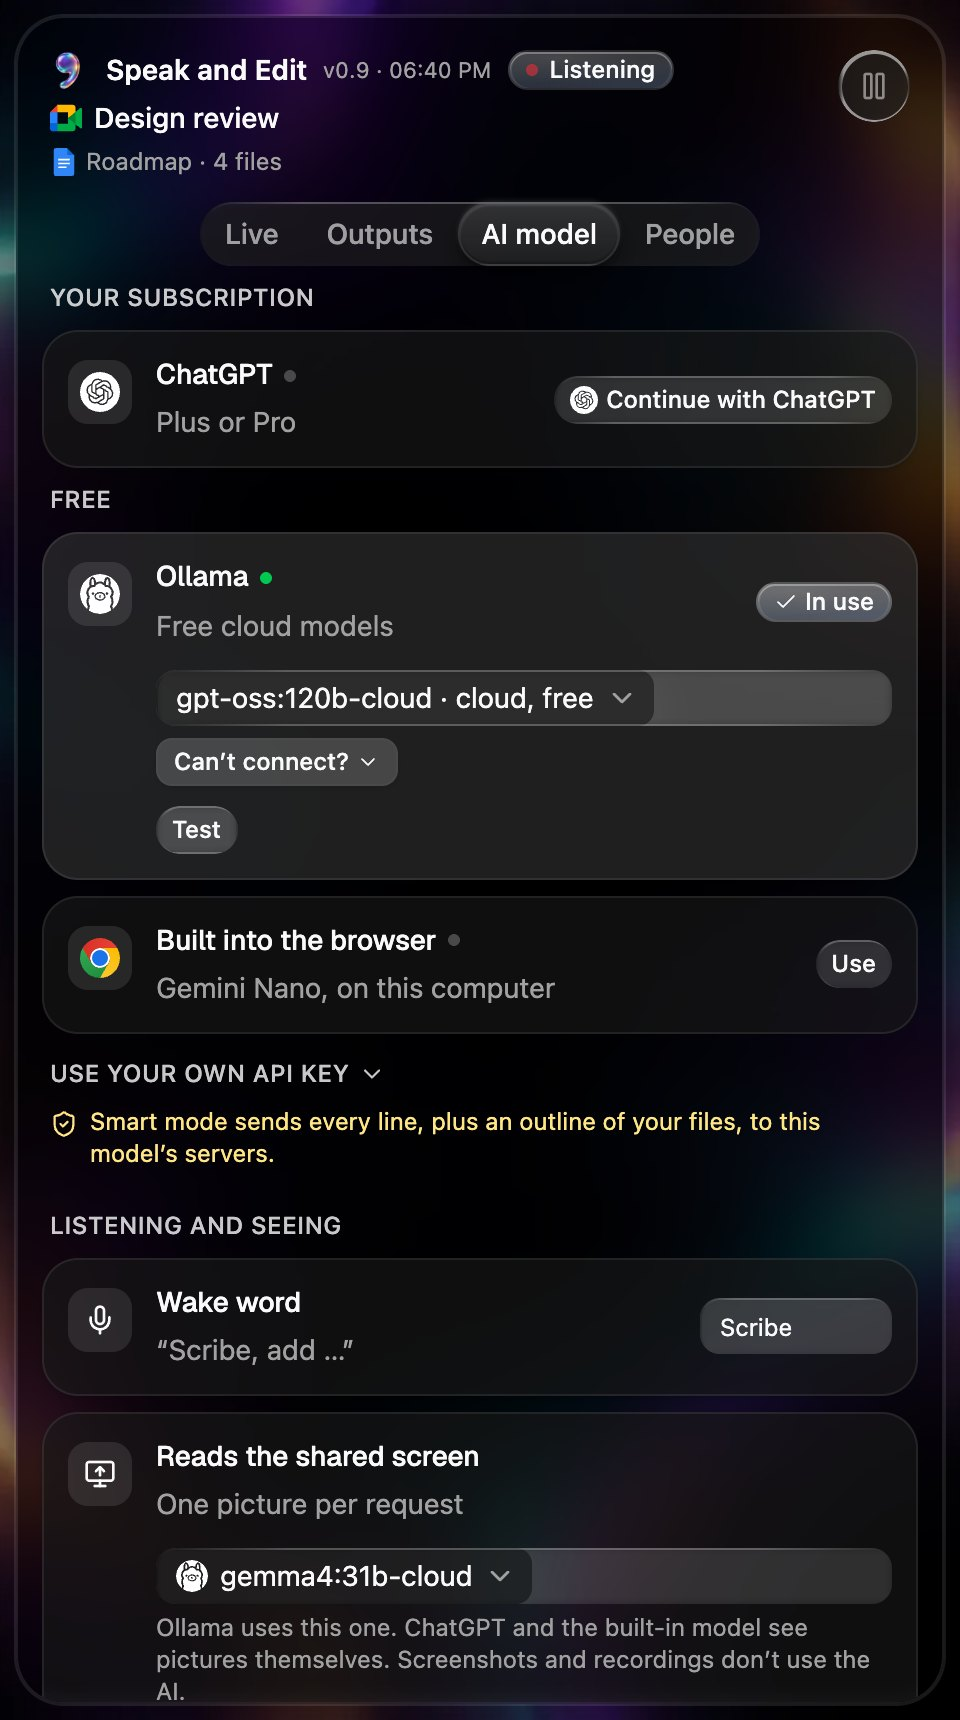
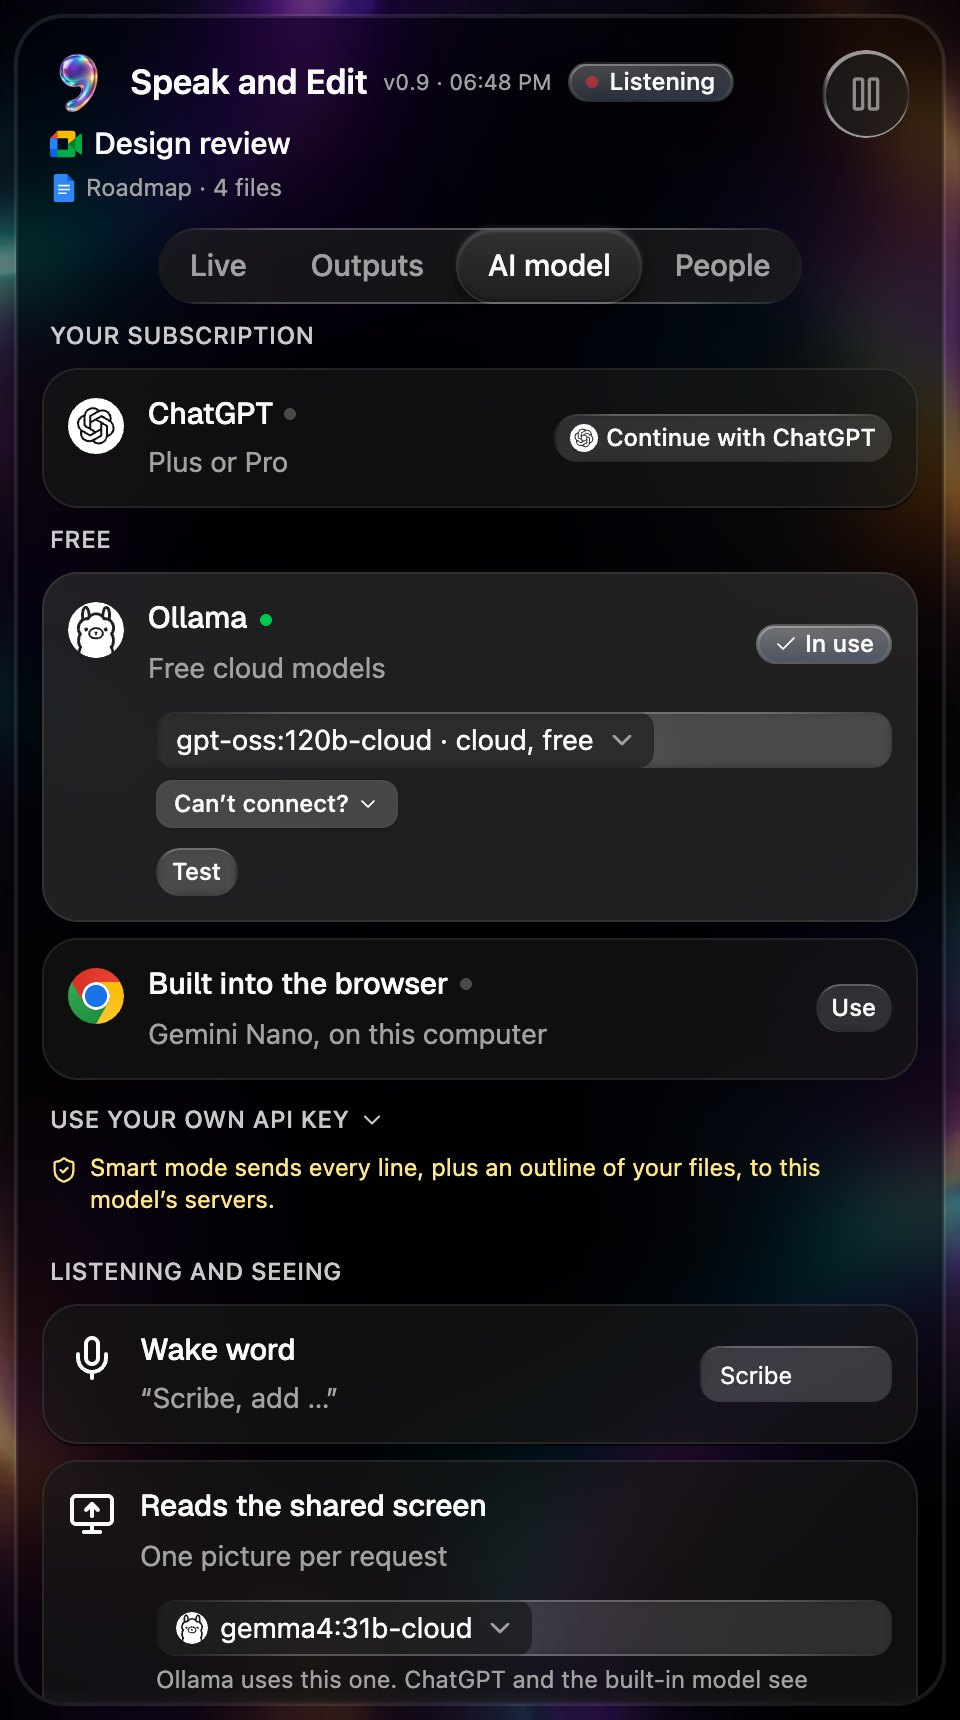
Scale the panel to the design boards' proportions
Same stock components, a size up: 15px row titles, roomier rows, bare app
logos with no tile box, bigger header, tabs, avatars and footer pickers.

diff --git a/src/sidepanel/OutputsTab.tsx b/src/sidepanel/OutputsTab.tsx
@@ -39,7 +39,8 @@ import { ChoiceRow, Hint, SectionLabel } from "./shared";
 
 /** The square tile every logo and icon sits in, so rows line up. */
 function Tile({ children }: { children: React.ReactNode }) {
-  return <ItemMedia className="size-8 rounded-lg bg-white/70 dark:bg-white/10 [&_svg:not([class*='size-'])]:size-4">{children}</ItemMedia>;
+  // The logo sits bare, a size up: no box behind it (his call, 2026-11-04).
+  return <ItemMedia className="[&_svg]:!size-7">{children}</ItemMedia>;
 }
 
 interface OpenTab {
@@ -147,7 +148,7 @@ export function OutputsTab(props: { engine: Engine; state: EngineState; settings
 
   /** A compact row: logo or icon, a title, at most one short line, and a control. */
   const pickRow = (icon: React.ReactNode, title: string, line: string, control: React.ReactNode, after?: React.ReactNode) => (
-    <GlassItem className="gap-3 px-3" glassVariant="subtle" size="sm">
+    <GlassItem className="gap-3 px-3 py-3" glassVariant="subtle" size="sm">
       <Tile>{icon}</Tile>
       <ItemContent className="min-w-0">
         <ItemTitle>{title}</ItemTitle>
@@ -219,7 +220,7 @@ export function OutputsTab(props: { engine: Engine; state: EngineState; settings
                 return (
                   <div key={f.id}>
                     {i > 0 && <GlassSeparator className="mx-3" glassVariant="subtle" />}
-                    <GlassItem className="items-start gap-3 rounded-none border-0 px-3 shadow-none" glassVariant="clear" size="sm">
+                    <GlassItem className="items-start gap-3 rounded-none border-0 px-3 py-3 shadow-none" glassVariant="clear" size="sm">
                       <Tile>
                         <Logo name={FILE_LOGO[f.kind]} />
                       </Tile>
@@ -263,7 +264,7 @@ export function OutputsTab(props: { engine: Engine; state: EngineState; settings
           <>
             <SectionLabel>Open in this window</SectionLabel>
             {openTabs.map((t) => (
-              <GlassItem className="gap-3 px-3" glassVariant="subtle" key={t.id} size="sm">
+              <GlassItem className="gap-3 px-3 py-3" glassVariant="subtle" key={t.id} size="sm">
                 <Tile>
                   <Logo name={FILE_LOGO[t.kind]} />
                 </Tile>
@@ -287,7 +288,7 @@ export function OutputsTab(props: { engine: Engine; state: EngineState; settings
         <OverleafSection connected={settings.files} onAdd={addLocal} />
 
         {googleReady && (
-          <GlassItem className="gap-3 px-3" glassVariant="subtle" size="sm">
+          <GlassItem className="gap-3 px-3 py-3" glassVariant="subtle" size="sm">
             <Tile>
               <Logo name="google" />
             </Tile>
@@ -344,7 +345,7 @@ export function OutputsTab(props: { engine: Engine; state: EngineState; settings
 
       <div className="flex flex-col gap-2">
         <SectionLabel>Also</SectionLabel>
-        <GlassItem className="gap-3 px-3" glassVariant="subtle" size="sm">
+        <GlassItem className="gap-3 px-3 py-3" glassVariant="subtle" size="sm">
           <Tile>
             <MessageSquareQuoteIcon />
           </Tile>

diff --git a/src/sidepanel/EntryView.tsx b/src/sidepanel/EntryView.tsx
@@ -123,7 +123,7 @@ function ActionView({ entry, engine }: { entry: Entry; engine: Engine }) {
         <Tool className={cn("mb-0 rounded-xl", subtle)} defaultOpen={!ok || a.done.length > 1}>
           <ToolHeader
             className="p-2.5 text-left"
-            icon={<SlidersHorizontalIcon className="size-4 text-muted-foreground" />}
+            icon={<SlidersHorizontalIcon className="size-6 text-muted-foreground" />}
             state={ok ? "output-available" : "output-error"}
             title={`Scribe: ${a.done[0] ?? "couldn’t change that"}`}
             type="tool-set_scribe"
@@ -183,7 +183,7 @@ function ActionView({ entry, engine }: { entry: Entry; engine: Engine }) {
       const p = a.proposal;
       return (
         <Tool className={cn("mb-0 rounded-xl", subtle)} defaultOpen>
-          <ToolHeader className="p-2.5 text-left" icon={<Logo className="size-4" name={FILE_LOGO[p.file.kind]} />} state="approval-requested" title={proposalTitle(p)} type="tool-scribe" />
+          <ToolHeader className="p-2.5 text-left" icon={<Logo className="size-6" name={FILE_LOGO[p.file.kind]} />} state="approval-requested" title={proposalTitle(p)} type="tool-scribe" />
           <ToolContent className="space-y-3 p-3">
             <MediaPreview p={p} />
             <ToolInput input={{ file: p.file.title, ...describeWrite(p.write) }} />
@@ -225,7 +225,7 @@ function ActionView({ entry, engine }: { entry: Entry; engine: Engine }) {
                 : "Added";
       return (
         <Tool className={cn("mb-0 rounded-xl", subtle)} defaultOpen={waiting}>
-          <ToolHeader className="p-2.5 text-left" icon={<Logo className="size-4" name={FILE_LOGO[p.file.kind]} />} state={state} title={`${verb}: ${p.file.title} › ${r.where}`} type="tool-scribe" />
+          <ToolHeader className="p-2.5 text-left" icon={<Logo className="size-6" name={FILE_LOGO[p.file.kind]} />} state={state} title={`${verb}: ${p.file.title} › ${r.where}`} type="tool-scribe" />
           <ToolContent className="space-y-3 p-3">
             <MediaPreview p={p} />
             <ToolInput input={{ ...(r.remove ? { remove: r.remove } : {}), add: r.add, requested_by: `${p.speaker}, ${timeOf(p.at).slice(0, 5)}` }} />
@@ -270,11 +270,11 @@ export function EntryView({ entry, engine, me, avatar }: { entry: Entry; engine:
       <Message from={mine ? "user" : "assistant"}>
         <div className={cn("flex items-center gap-2 text-muted-foreground text-xs", mine && "justify-end")}>
           <SpeakerAvatar name={entry.speaker} src={avatar} />
-          <span className="font-medium text-foreground">{entry.speaker}</span>
+          <span className="font-medium text-foreground text-sm">{entry.speaker}</span>
           <time className="tabular-nums">{timeOf(entry.at)}</time>
           {entry.typed && <span>typed</span>}
         </div>
-        <MessageContent>
+        <MessageContent className="text-[15px]">
           <p className={cn(wake && "font-medium")}>{entry.text}</p>
         </MessageContent>
       </Message>

diff --git a/src/sidepanel/App.tsx b/src/sidepanel/App.tsx
@@ -149,8 +149,8 @@ export function App() {
         <GlassCard className="glass-scope h-full w-full gap-0 overflow-hidden rounded-[24px] py-0 text-foreground dark:bg-black/60" glassVariant="frosted">
           <header className="flex items-start justify-between gap-2 px-4 pt-4">
             <div className="flex min-w-0 flex-col gap-1">
-              <div className="flex items-center gap-2 font-semibold">
-                <img alt="" className="size-5 shrink-0" src={logo} />
+              <div className="flex items-center gap-2 font-semibold text-[17px]">
+                <img alt="" className="size-8 shrink-0" src={logo} />
                 Speak and Edit
                 <BuildStamp />
                 <GlassBadge className="gap-1.5" glassVariant="liquid">
@@ -164,7 +164,7 @@ export function App() {
                   </GlassBadge>
                 )}
               </div>
-              <div className="flex min-w-0 items-center gap-1.5 font-medium">
+              <div className="flex min-w-0 items-center gap-1.5 font-medium text-[15px]">
                 <Logo className="size-4" name="meet" />
                 <span className="truncate">{meet?.title ?? "Google Meet"}</span>
               </div>
@@ -196,7 +196,7 @@ export function App() {
                       aria-label={meet?.paused ? "Resume listening" : "Pause listening"}
                       disabled={!meetTabId || meet?.status !== "listening"}
                       onClick={() => void setPaused(!meet?.paused)}
-                      size="sm"
+                      size="md"
                     />
                   }
                 >
@@ -209,16 +209,16 @@ export function App() {
 
           <div className="flex justify-center px-3 pt-3 pb-2">
             <GlassToggleGroup aria-label="Scribe sections" onValueChange={(v) => setTab(v as Tab)} value={tab}>
-              <GlassToggleGroupItem className="px-3 py-1.5" value="live">
+              <GlassToggleGroupItem className="px-4 py-2 text-[15px]" value="live">
                 Live
               </GlassToggleGroupItem>
-              <GlassToggleGroupItem className="px-3 py-1.5" value="outputs">
+              <GlassToggleGroupItem className="px-4 py-2 text-[15px]" value="outputs">
                 Outputs
               </GlassToggleGroupItem>
-              <GlassToggleGroupItem className="px-3 py-1.5" value="ai">
+              <GlassToggleGroupItem className="px-4 py-2 text-[15px]" value="ai">
                 AI model
               </GlassToggleGroupItem>
-              <GlassToggleGroupItem className="px-3 py-1.5" value="people">
+              <GlassToggleGroupItem className="px-4 py-2 text-[15px]" value="people">
                 People
               </GlassToggleGroupItem>
             </GlassToggleGroup>

diff --git a/src/sidepanel/AiTab.tsx b/src/sidepanel/AiTab.tsx
@@ -363,12 +363,12 @@ export function AiTab(props: {
     const st = status[p];
     return (
       <GlassItem
-        className={cn("gap-3 px-3", selected && "bg-white/55 dark:bg-white/[0.12]")}
+        className={cn("gap-3 px-3 py-3", selected && "bg-white/55 dark:bg-white/[0.12]")}
         glassVariant="subtle"
         key={p}
         size="sm"
       >
-        <ItemMedia className="size-8 rounded-lg bg-white/70 dark:bg-white/10">
+        <ItemMedia className="[&_svg]:!size-7">
           <Logo name={PROVIDER_LOGO[p]} />
         </ItemMedia>
         <ItemContent className="min-w-0">
@@ -427,9 +427,9 @@ export function AiTab(props: {
 
       <div className="flex flex-col gap-2">
         <SectionLabel>Listening and seeing</SectionLabel>
-        <GlassItem className="gap-3 px-3" glassVariant="subtle" size="sm">
-          <ItemMedia className="size-8 rounded-lg bg-white/70 dark:bg-white/10">
-            <MicIcon className="size-4" />
+        <GlassItem className="gap-3 px-3 py-3" glassVariant="subtle" size="sm">
+          <ItemMedia className="[&_svg]:!size-6">
+            <MicIcon />
           </ItemMedia>
           <ItemContent className="min-w-0">
             <ItemTitle>Wake word</ItemTitle>
@@ -439,9 +439,9 @@ export function AiTab(props: {
             <GlassInput aria-label="Wake word" className="h-7 w-24 text-xs" onChange={(e) => update({ wakeWord: e.target.value.replace(/\s+/g, "") || "Scribe" })} value={settings.wakeWord} />
           </ItemActions>
         </GlassItem>
-        <GlassItem className="gap-3 px-3" glassVariant="subtle" size="sm">
-          <ItemMedia className="size-8 rounded-lg bg-white/70 dark:bg-white/10">
-            <MonitorUpIcon className="size-4" />
+        <GlassItem className="gap-3 px-3 py-3" glassVariant="subtle" size="sm">
+          <ItemMedia className="[&_svg]:!size-6">
+            <MonitorUpIcon />
           </ItemMedia>
           <ItemContent className="min-w-0">
             <ItemTitle>Reads the shared screen</ItemTitle>

diff --git a/src/sidepanel/LiveTab.tsx b/src/sidepanel/LiveTab.tsx
@@ -80,8 +80,8 @@ function FooterPicker<T extends string>(props: { label: string; value: T; choice
   const Icon = current.icon;
   return (
     <PromptInputActionMenu>
-      <PromptInputActionMenuTrigger aria-label={`${label}: ${current.title}`} className="gap-1.5 px-2 text-muted-foreground text-xs" size="sm">
-        <Icon className="size-3.5" />
+      <PromptInputActionMenuTrigger aria-label={`${label}: ${current.title}`} className="gap-1.5 px-2.5 text-muted-foreground text-sm" size="sm">
+        <Icon className="size-4" />
         {current.short ?? current.title}
       </PromptInputActionMenuTrigger>
       <PromptInputActionMenuContent className={cn(MENU_GLASS, "w-64 p-1.5")} collisionPadding={8} side="top" sticky="always">
@@ -153,7 +153,7 @@ export function LiveTab(props: {
   return (
     <section aria-label="Live" className="flex min-h-0 flex-1 flex-col gap-2.5 px-3 pb-3">
       {inCall && (
-        <div className={cn("flex flex-col gap-1.5 rounded-xl px-2.5 py-2 text-xs", subtle)}>
+        <div className={cn("flex flex-col gap-2 rounded-xl px-3 py-2.5 text-[13px]", subtle)}>
           <div className="flex items-center gap-2">
             <MonitorUpIcon className="size-3.5 shrink-0" />
             <span className={cn("min-w-0 flex-1", !screen && "text-muted-foreground")}>

diff --git a/src/sidepanel/PeopleTab.tsx b/src/sidepanel/PeopleTab.tsx
@@ -52,9 +52,9 @@ export function PeopleTab(props: { state: EngineState; settings: Settings; updat
             {names.map((name, i) => (
               <div key={name}>
                 {i > 0 && <GlassSeparator className="mx-3" glassVariant="subtle" />}
-                <GlassItem className="rounded-none border-0 px-3 shadow-none" glassVariant="clear" size="sm">
+                <GlassItem className="rounded-none border-0 px-3 py-3 shadow-none" glassVariant="clear" size="sm">
                   <ItemMedia>
-                    <SpeakerAvatar className="size-8" name={name} src={state.avatars[name]} />
+                    <SpeakerAvatar className="size-10" name={name} src={state.avatars[name]} />
                   </ItemMedia>
                   <ItemContent>
                     <ItemTitle>{name}</ItemTitle>
@@ -70,7 +70,7 @@ export function PeopleTab(props: { state: EngineState; settings: Settings; updat
         ) : (
           <Hint>Nobody has spoken yet.</Hint>
         )}
-        <GlassItem glassVariant="subtle" size="sm">
+        <GlassItem className="py-3" glassVariant="subtle" size="sm">
           <ItemContent>
             <ItemTitle>Anyone new</ItemTitle>
             <ItemDescription>People not listed above</ItemDescription>

diff --git a/src/sidepanel/shared.tsx b/src/sidepanel/shared.tsx
@@ -26,9 +26,9 @@ export function colorFor(name: string) {
 /** The speaker's Google photo when Meet shows one, otherwise their initials. */
 export function SpeakerAvatar({ name, src, className }: { name: string; src?: string; className?: string }) {
   return (
-    <Avatar className={cn("size-5", className)}>
+    <Avatar className={cn("size-6", className)}>
       {src && <AvatarImage alt="" referrerPolicy="no-referrer" src={src} />}
-      <AvatarFallback className={cn("text-[10px] font-medium text-white", colorFor(name))}>{initials(name)}</AvatarFallback>
+      <AvatarFallback className={cn("text-[11px] font-medium text-white", colorFor(name))}>{initials(name)}</AvatarFallback>
     </Avatar>
   );
 }

diff --git a/src/components/glasscn/ui/item.tsx b/src/components/glasscn/ui/item.tsx
@@ -120,7 +120,8 @@ function ItemTitle({ className, ...props }: React.ComponentProps<"div">) {
     <div
       data-slot="item-title"
       className={cn(
-        "line-clamp-1 flex w-fit min-w-0 items-center gap-2 font-heading text-sm leading-snug font-medium underline-offset-4",
+        // local patch: the mockups' row scale — titles a step larger than shadcn's default.
+        "line-clamp-1 flex w-fit min-w-0 items-center gap-2 font-heading text-[15px] leading-snug font-medium underline-offset-4",
         className,
       )}
       {...props}

diff --git a/src/sidepanel/ObsidianSection.tsx b/src/sidepanel/ObsidianSection.tsx
@@ -64,8 +64,8 @@ export function ObsidianSection(props: { connected: FileRef[]; meetingTitle: str
 
   return (
     <div className="flex flex-col gap-2">
-      <GlassItem className="gap-3 px-3" glassVariant="subtle" size="sm">
-        <ItemMedia className="size-8 rounded-lg bg-white/70 dark:bg-white/10">
+      <GlassItem className="gap-3 px-3 py-3" glassVariant="subtle" size="sm">
+        <ItemMedia className="[&_svg]:!size-7">
           <Logo name="obsidian" />
         </ItemMedia>
         <ItemContent className="min-w-0">

diff --git a/src/sidepanel/OverleafSection.tsx b/src/sidepanel/OverleafSection.tsx
@@ -41,8 +41,8 @@ export function OverleafSection(props: { connected: FileRef[]; onAdd: (f: FileRe
     });
 
   return (
-    <GlassItem className="gap-3 px-3" glassVariant="subtle" size="sm">
-      <ItemMedia className="size-8 rounded-lg bg-white/70 dark:bg-white/10">
+    <GlassItem className="gap-3 px-3 py-3" glassVariant="subtle" size="sm">
+      <ItemMedia className="[&_svg]:!size-7">
         <Logo name="overleaf" />
       </ItemMedia>
       <ItemContent className="min-w-0">
